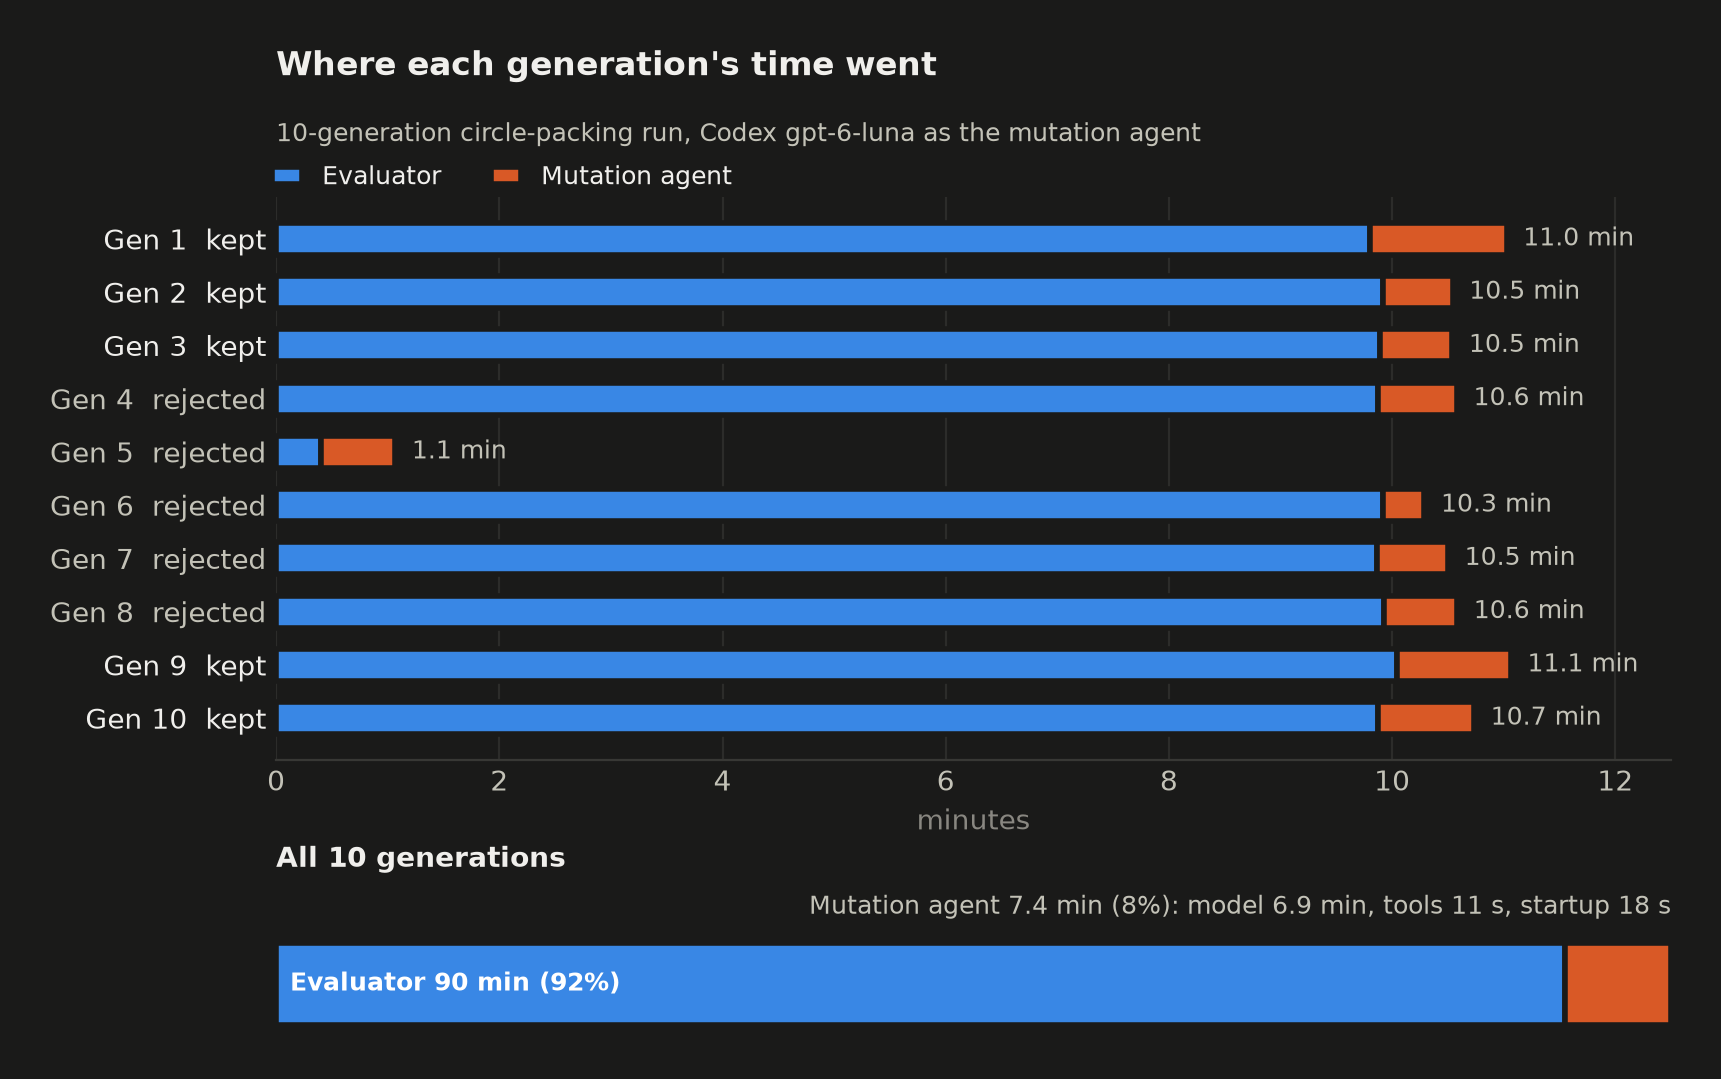
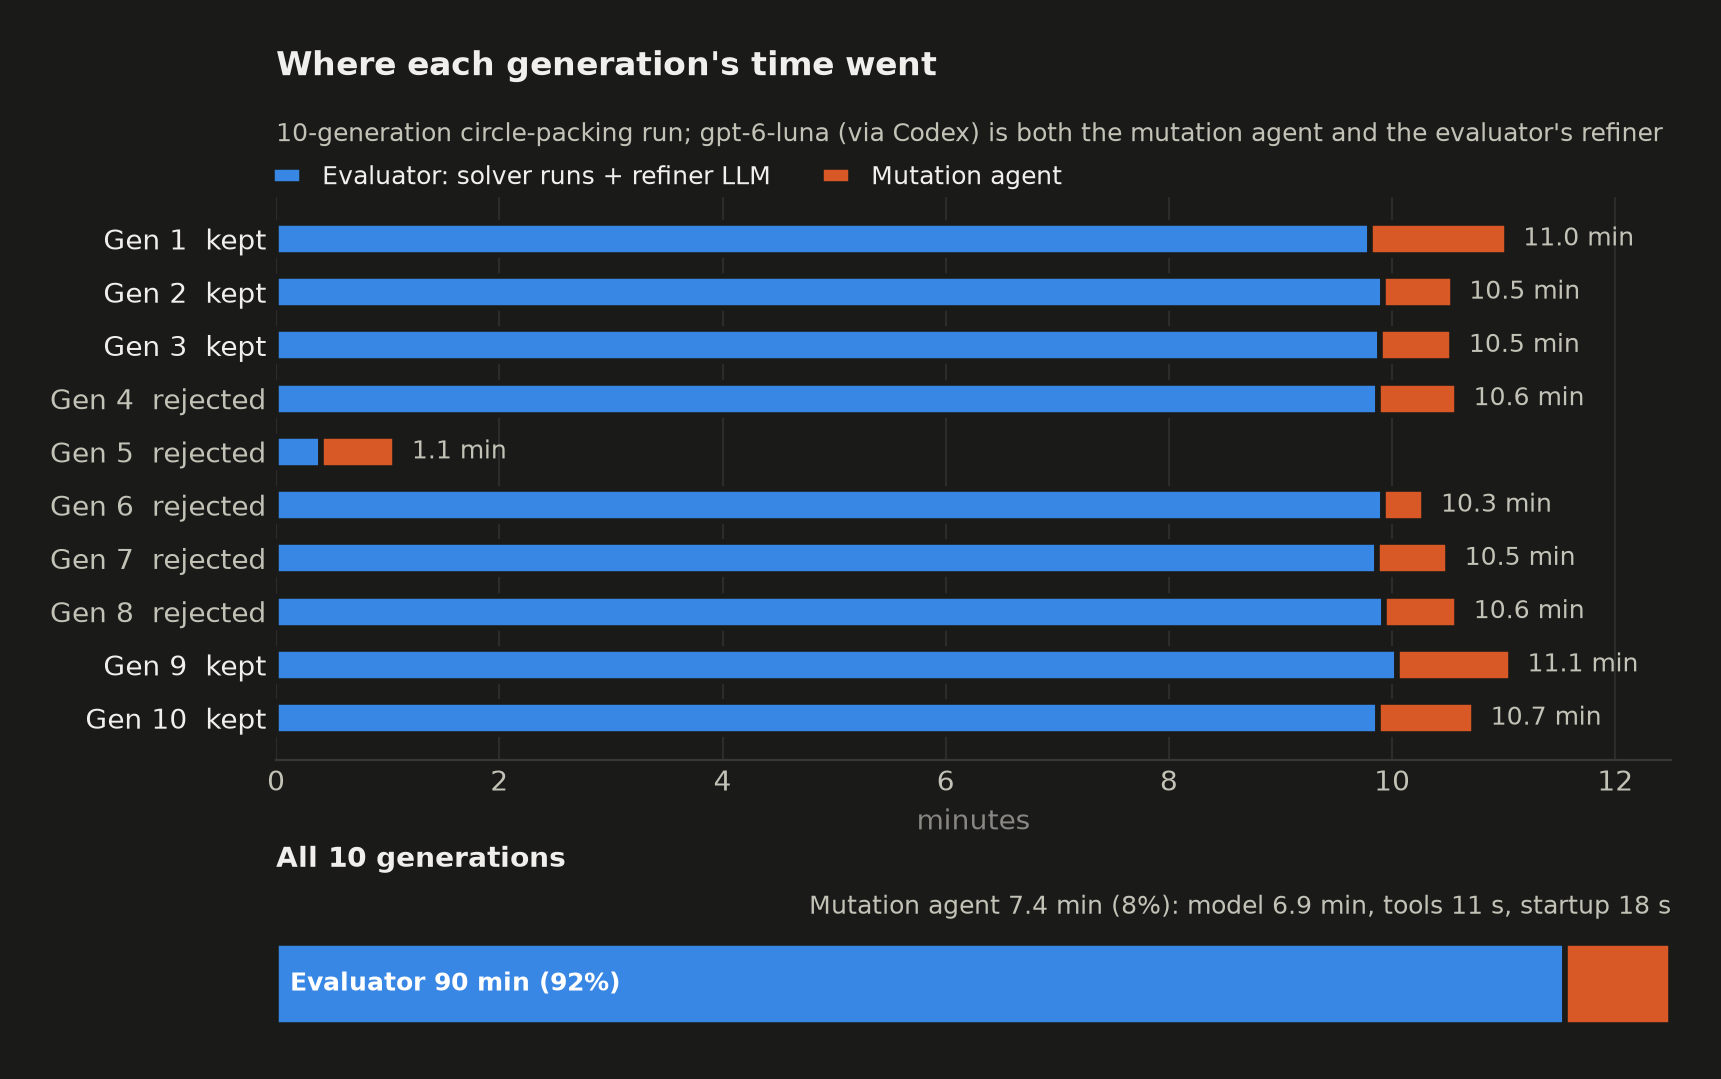
docs(timing): say that the circle-packing evaluator calls an LLM too
The evaluator's time includes its own refiner LLM (gpt-6-luna through
Codex), separate from the mutation agent; the chart's legend and subtitle
and the README paragraph now say so.

Changed region(s): [[0.2772, 0.0918, 0.6159, 0.1835], [0.6159, 0.0918, 0.8931, 0.1529], [0.9239, 0.0918, 0.9547, 0.1529]]

diff --git a/README.md b/README.md
@@ -829,13 +829,16 @@ ones, the same way their tokens are charged to the budget. Parallel proposal
 slots each add their own work, so work can exceed wall time. Every duration
 leaves out time the machine slept, so a closed lid doesn't count.
 
-In this run, evaluation dominates: each child's solver runs for up to its
-600-second limit before a refiner LLM rewrites it. The mutation agent's 10
-calls took about 7 minutes in total, almost all of it waiting on the model.
+In this run, evaluation dominates, and the evaluator calls an LLM of its own.
+Each evaluation runs the candidate's solver for up to 600 seconds, then asks a
+refiner LLM (also `gpt-6-luna`, through Codex) to rewrite the code, and runs
+the rewrite too. So "evaluator" time here includes that refiner, separate from
+the mutation agent, whose 10 calls took about 7 minutes in total, almost all
+of it waiting on the model.
 
 <picture>
   <source media="(prefers-color-scheme: dark)" srcset="docs/images/helix-timing-dark.png">
-  <img alt="Bar chart of the same run: every generation but one spent about 10 minutes in the evaluator and under a minute in the mutation agent; across all 10 generations the evaluator took 90 minutes (92%) and the agent 7.4 minutes (8%), of which 6.9 minutes was waiting on the model" src="docs/images/helix-timing-light.png">
+  <img alt="Bar chart of the same run: every generation but one spent about 10 minutes in the evaluator (solver runs plus its refiner LLM) and under a minute in the mutation agent; across all 10 generations the evaluator took 90 minutes (92%) and the agent 7.4 minutes (8%), of which 6.9 minutes was waiting on the model" src="docs/images/helix-timing-light.png">
 </picture>
 
 To see a run as a timeline instead, `helix timing --perfetto trace.json`
